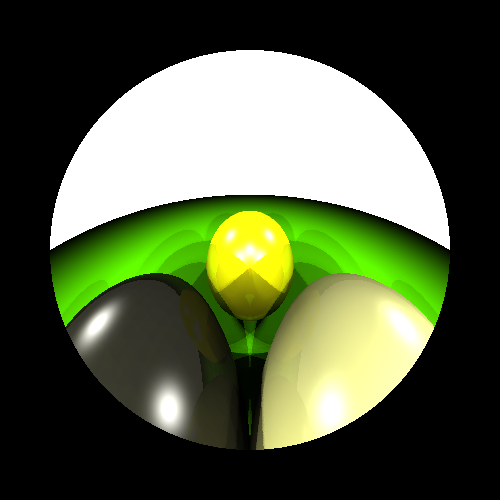
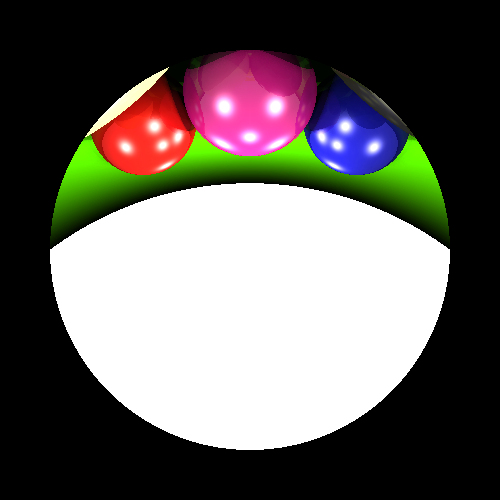
The Voodoo is ok

diff --git a/src/RayTracing/RayTracer.java b/src/RayTracing/RayTracer.java
@@ -211,32 +211,51 @@ public class RayTracer {
         // Create a byte array to hold the pixel data:
         byte[] rgbData = new byte[this.imageWidth * this.imageHeight * 3];
         boolean isFish = imageScene.Settings.FishEyeLens;
-        imageScene.Camera.InitDirectionVectors();
+        //imageScene.Camera.InitDirectionVectors();
+        imageScene.Camera.UpVector.Normalize();
+        imageScene.Camera.UpVector = Vector.ScalarMultiply(imageScene.Camera.UpVector, -1);
+        //imageScene.Camera.LookAtPoint.Normalize();
+        Vector forward = Vector.VectorSubtraction(imageScene.Camera.Position, imageScene.Camera.LookAtPoint);
+        forward.Normalize();
+        Vector rightVector = Vector.CrossProduct(forward, imageScene.Camera.UpVector);
+        rightVector.Normalize();
         Vector screenCenter = Vector.VectorAddition(imageScene.Camera.Position,
-                Vector.ScalarMultiply(imageScene.Camera.TowardsVector, imageScene.Camera.ScreenDistance)) ;//screen center = position + distance*towards
-        Vector temp = Vector.VectorAddition(Vector.ScalarMultiply(imageScene.Camera.RightVector, (imageScene.Camera.ScreenWidth - pixel)),
-                Vector.ScalarMultiply(imageScene.Camera.UpVector, imageHeight/500 -pixel)); //temp = (width - pixel size) * Right Vector + (height - pixel size) * Up Vector
-        Vector p0 = Vector.VectorSubtraction(screenCenter, Vector.ScalarMultiply(temp, 0.5));
-        imageScene.Camera.Dx = Vector.ScalarMultiply(imageScene.Camera.RightVector,pixel);
-        imageScene.Camera.Dy = Vector.ScalarMultiply(imageScene.Camera.UpVector,pixel);
+                Vector.ScalarMultiply(forward, imageScene.Camera.ScreenDistance)) ;//screen center = position + distance*towards
+        //Vector temp = Vector.VectorAddition(Vector.ScalarMultiply(imageScene.Camera.RightVector, (imageScene.Camera.ScreenWidth - pixel)),
+                //Vector.ScalarMultiply(imageScene.Camera.UpVector, imageHeight/500 -pixel)); //temp = (width - pixel size) * Right Vector + (height - pixel size) * Up Vector
+        //Vector p0 = Vector.VectorSubtraction(screenCenter, Vector.ScalarMultiply(temp, 0.5));
+        //imageScene.Camera.Dx = Vector.ScalarMultiply(imageScene.Camera.RightVector,pixel);
+        //imageScene.Camera.Dy = Vector.ScalarMultiply(imageScene.Camera.UpVector,pixel);
+        Vector vp = Vector.CrossProduct(forward, rightVector);
+        vp.Normalize();
+        double pixelWidth = imageScene.Camera.ScreenWidth / (double)this.imageWidth;
+        double pixelHeight = (double)(this.imageWidth / this.imageHeight) * pixelWidth;
         Color ambient = imageScene.getAmbientLighting();
         for(int row=0 ; row<this.imageHeight; row++){
             for(int col=0; col<this.imageWidth; col++){
-                Vector shift = Vector.VectorAddition(Vector.ScalarMultiply(imageScene.Camera.Dx,col), Vector.ScalarMultiply(imageScene.Camera.Dy,row));
-                Vector currentPixel =   Vector.VectorAddition(p0, shift);
+                //Vector shift = Vector.VectorAddition(Vector.ScalarMultiply(imageScene.Camera.Dx,col), Vector.ScalarMultiply(imageScene.Camera.Dy,row));
+                //Vector currentPixel =   Vector.VectorAddition(p0, shift);
+                double xPixel = (double) col +0.5D;
+                double yPixel = (double) row + 0.5D;
+                double upDistance = (yPixel - (double)(this.imageHeight / 2)) * pixelHeight;
+                double rightDistance = (xPixel - (double)(this.imageWidth / 2)) * pixelWidth;
+                Vector upMove = Vector.ScalarMultiply(vp, upDistance);
+                Vector rightMove = Vector.ScalarMultiply(rightVector, rightDistance);
+                Vector currentPixel = Vector.VectorAddition(screenCenter, upMove);
+                currentPixel = Vector.VectorAddition(currentPixel, rightMove);
                 Ray ray;
                 if(!isFish)
                 {
-                    ray = new Ray(currentPixel, Vector.VectorSubtraction(currentPixel,imageScene.Camera.Position));
+                    ray = new Ray(imageScene.Camera.Position, Vector.VectorSubtraction(imageScene.Camera.Position, currentPixel));
                     ray.Direction.Normalize();//Normalize direction Vector
                 }
                 else{
-                    Vector fishDirection = CalcFishDirection(currentPixel, screenCenter, imageScene);
-                    if(fishDirection == null){
+                    ray = CalcFishDirection(currentPixel, screenCenter, imageScene);
+                    if(ray == null){
                         ColorUtils.setColor(rgbData, 3 * (col + row * this.imageWidth), Color.BLACK );
                         continue;
                     }
-                    ray = new Ray(imageScene.Camera.Position, fishDirection);
+                    //ray = new Ray(imageScene.Camera.Position, fishDirection);
                 }
                 List<Hit> hits = Hit.FindHits(ray, imageScene);
                 //System.out.println("number of hits for ray "+row+", "+col+ " : " + hits.size());
@@ -262,20 +281,20 @@ public class RayTracer {
 
     }
 
-    public Vector CalcFishDirection(Vector currentPixel, Vector screenCenter, Scene scene){
+    public Ray CalcFishDirection(Vector currentPixel, Vector screenCenter, Scene scene){
         Double r = Vector.Distance(currentPixel, screenCenter);
         Double theta = CalcTheta(r, scene);
-        System.out.println(theta);
-        if(theta > 90){
+        //System.out.println(theta);
+        if(Math.toDegrees(theta)  > 90){
             return null;
         }
         Vector v = Vector.VectorSubtraction(currentPixel,screenCenter);
         v.Normalize();
-        double rXip = scene.Camera.ScreenDistance * Math.tan(Math.toRadians(theta));
+        double rXip = scene.Camera.ScreenDistance * Math.tan(theta);
         Vector xip = Vector.VectorAddition(screenCenter,Vector.ScalarMultiply(v,rXip));
         Vector res = Vector.VectorSubtraction(xip, scene.Camera.Position);
         res.Normalize();
-        return res;
+        return new Ray(scene.Camera.Position, res);
     }
 
     // Theta is returned in degrees
@@ -287,9 +306,9 @@ public class RayTracer {
             return r / f;
         }
         else if(k <= 1 && k > 0) {
-            return Math.toDegrees(Math.atan(r / f_k)/ k);
+            return Math.atan(r / f_k) / k;
         }
-        return  Math.toDegrees(Math.asin(r / f_k)/ k);
+        return  Math.asin(r / f_k)/ k;
     }
 
 
